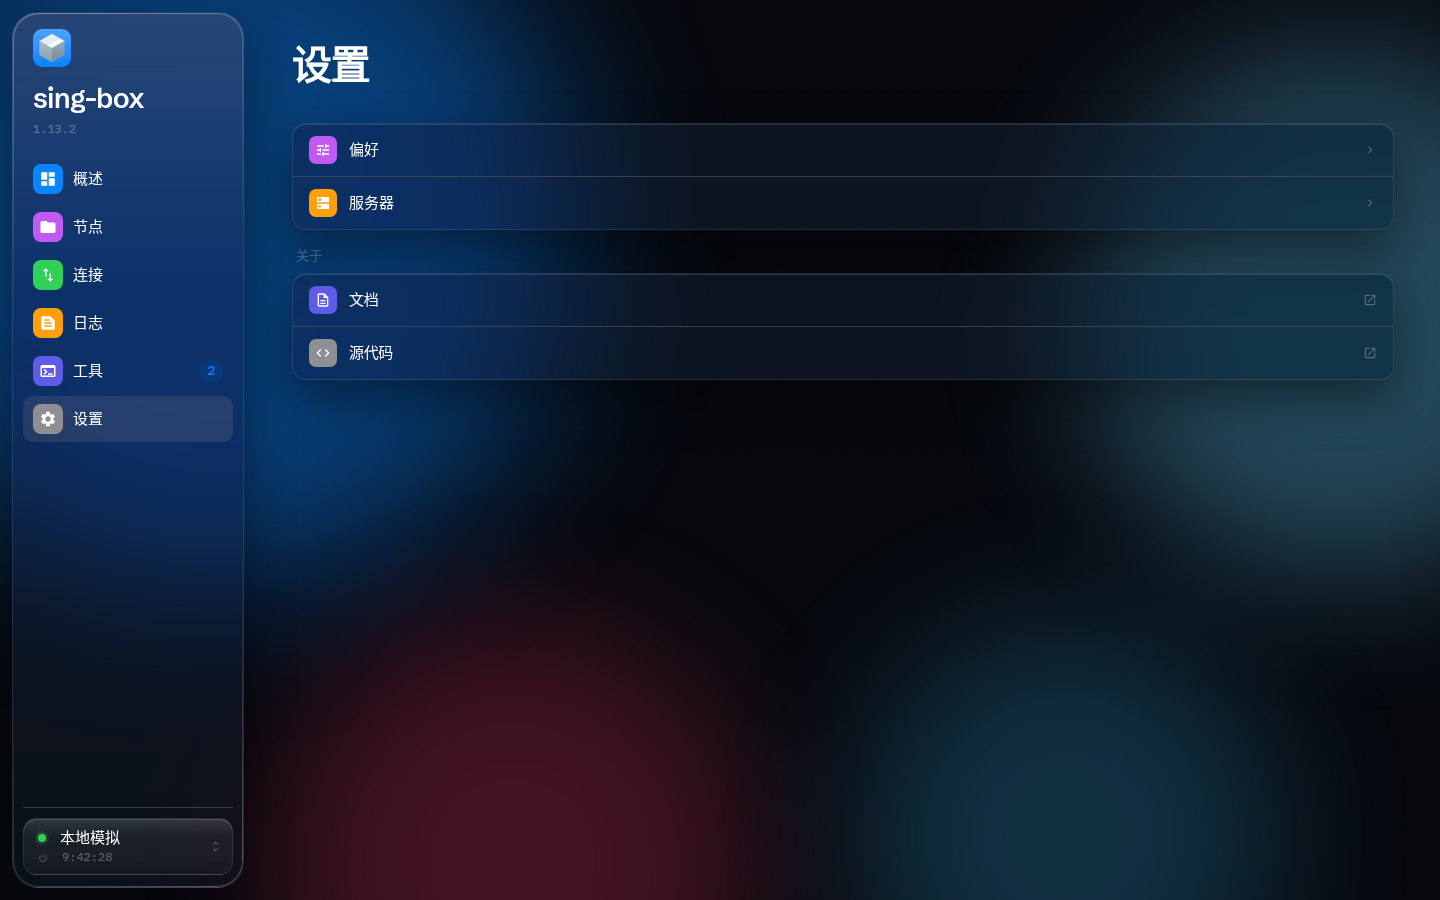
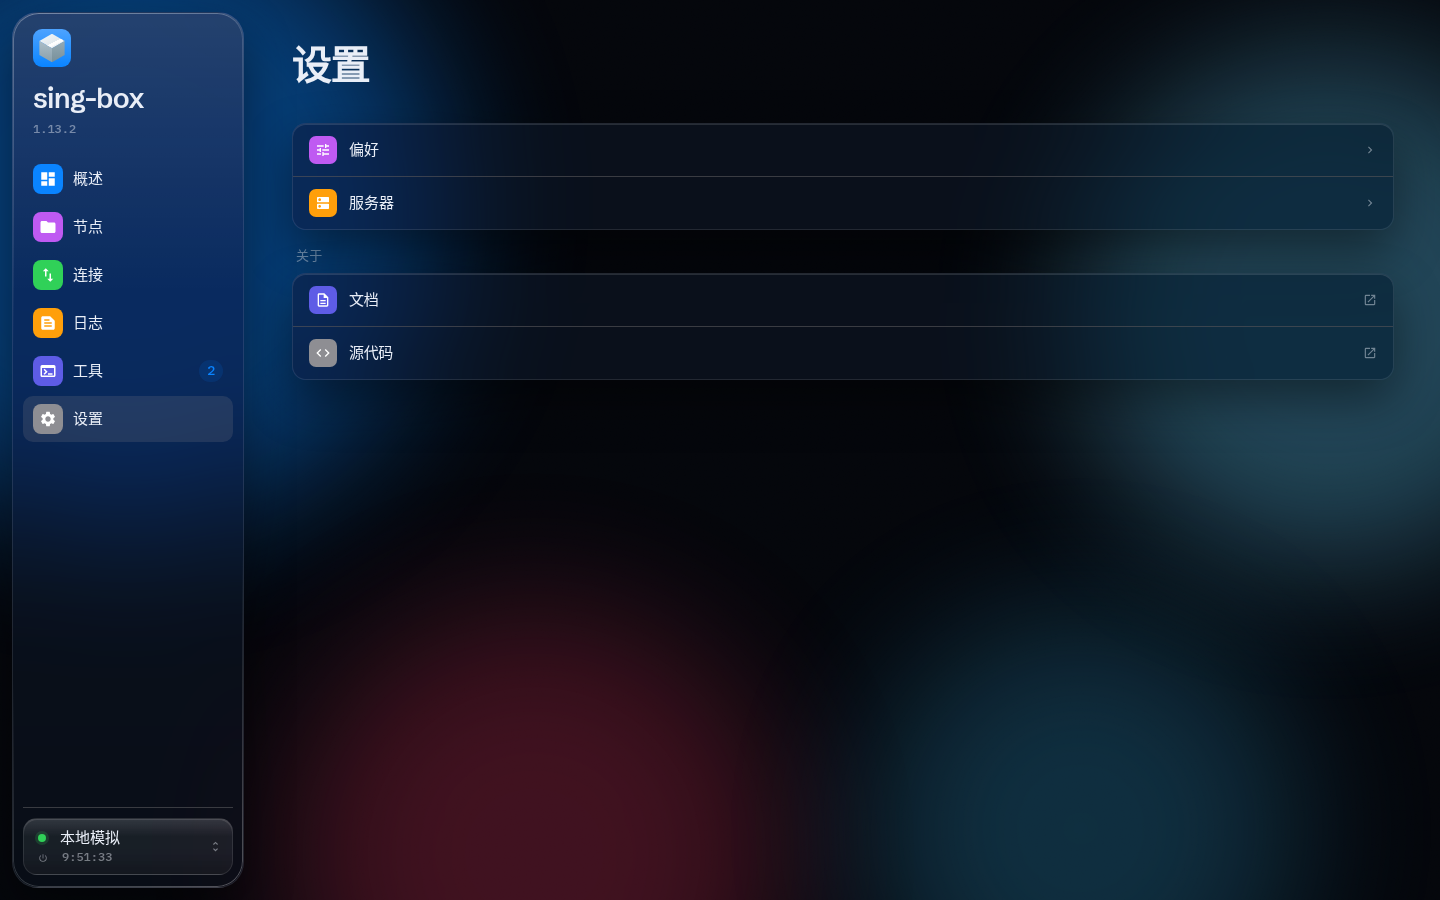
style: deepen the canvas so glass frost has more contrast
Shift the light field from near-white to slate #d0dae8 and the dark
field to #04060b, matching CFNext's deeper ground. Keep glass around
54% with solid #16202e / #e9eef7 type so the blobs do not wash out
labels or titles.

Changed region(s): [[0.0938, 0.0, 0.4375, 0.7156]]

diff --git a/src/styles/globals.css b/src/styles/globals.css
@@ -63,14 +63,14 @@
   --md-tertiary-container: #e6e6ff;
   --md-on-tertiary-container: #1c1c4d;
 
-  --md-surface: #f5f5f7;
-  --md-surface-container-lowest: rgb(255 255 255 / 86%);
-  --md-surface-container-low: rgb(255 255 255 / 72%);
-  --md-surface-container: #f5f5f7;
-  --md-surface-container-high: #ebebed;
-  --md-surface-container-highest: #d2d2d7;
-  --md-on-surface: #000;
-  --md-on-surface-variant: rgb(60 60 67 / 68%);
+  --md-surface: #d0dae8;
+  --md-surface-container-lowest: rgb(236 242 250 / 86%);
+  --md-surface-container-low: rgb(236 242 250 / 72%);
+  --md-surface-container: #d0dae8;
+  --md-surface-container-high: #c4cfde;
+  --md-surface-container-highest: #b3c0d2;
+  --md-on-surface: #16202e;
+  --md-on-surface-variant: rgb(50 64 84 / 78%);
   --md-outline: rgb(60 60 67 / 30%);
   --md-outline-variant: rgb(60 60 67 / 16%);
 
@@ -80,20 +80,20 @@
   --md-on-error-container: #5c0000;
 
   /* ---------- App semantic tokens ---------- */
-  --bg: #f4f6fb;
-  --surface: rgb(255 255 255 / 62%);
-  --card: rgb(255 255 255 / 50%);
-  --inset: #eaeef6;
+  --bg: #d0dae8;
+  --surface: rgb(236 242 250 / 64%);
+  --card: rgb(236 242 250 / 54%);
+  --inset: #c4cfde;
   --canvas-a: var(--accent);
   --canvas-b: var(--ios-teal);
   --canvas-c: var(--ios-pink);
   --blob-d: #38bdf8;
-  --blob-o: 0.42;
+  --blob-o: 0.4;
   --blob-blur: 74px;
-  --noise-opacity: 0.03;
-  --text: #000;
-  --text-secondary: rgb(60 60 67 / 68%);
-  --text-faint: rgb(60 60 67 / 36%);
+  --noise-opacity: 0.035;
+  --text: #16202e;
+  --text-secondary: rgb(50 64 84 / 82%);
+  --text-faint: rgb(50 64 84 / 52%);
   --border: rgb(60 60 67 / 12%);
   --border-strong: rgb(60 60 67 / 24%);
   --hover: rgb(120 120 128 / 10%);
@@ -126,10 +126,10 @@
   --bright: #fff;
   --terminal-bg: #1c1c1e;
 
-  /* Liquid Glass — fill stays ~50% so the atmosphere blobs can be seen through it. */
-  --glass-bg: rgb(255 255 255 / 50%);
-  --glass-bg-strong: rgb(255 255 255 / 60%);
-  --glass-bg-soft: rgb(255 255 255 / 36%);
+  /* Cool mist over a deeper slate canvas. 54% keeps type readable on the blobs. */
+  --glass-bg: rgb(236 242 250 / 54%);
+  --glass-bg-strong: rgb(236 242 250 / 64%);
+  --glass-bg-soft: rgb(236 242 250 / 38%);
   --glass-border: rgb(20 40 70 / 10%);
   --glass-border-strong: rgb(20 40 70 / 16%);
   --glass-blur: 22px;
@@ -278,13 +278,13 @@
   --md-tertiary-container: #2c2c4d;
   --md-on-tertiary-container: #e6e6ff;
 
-  --md-surface: #000;
-  --md-surface-container-lowest: rgb(28 28 30 / 86%);
-  --md-surface-container-low: rgb(28 28 30 / 72%);
-  --md-surface-container: #1d1d1f;
-  --md-surface-container-high: #2c2c2e;
-  --md-surface-container-highest: #3a3a3c;
-  --md-on-surface: #fff;
+  --md-surface: #04060b;
+  --md-surface-container-lowest: rgb(16 24 36 / 86%);
+  --md-surface-container-low: rgb(16 24 36 / 72%);
+  --md-surface-container: #0c1119;
+  --md-surface-container-high: #121826;
+  --md-surface-container-highest: #1a2331;
+  --md-on-surface: #e9eef7;
   --md-on-surface-variant: rgb(235 235 245 / 60%);
   --md-outline: rgb(235 235 245 / 30%);
   --md-outline-variant: rgb(84 84 88 / 65%);
@@ -294,19 +294,19 @@
   --md-error-container: #5c0000;
   --md-on-error-container: #ffd4d1;
 
-  --bg: #06080d;
-  --surface: rgb(23 32 45 / 62%);
-  --card: rgb(23 32 45 / 54%);
-  --inset: #090d14;
+  --bg: #04060b;
+  --surface: rgb(16 24 36 / 64%);
+  --card: rgb(16 24 36 / 56%);
+  --inset: #070a10;
   --canvas-a: var(--accent);
   --canvas-b: var(--ios-teal);
   --canvas-c: var(--ios-pink);
   --blob-d: #38bdf8;
   --blob-o: 0.44;
   --noise-opacity: 0.05;
-  --text: #fff;
-  --text-secondary: rgb(235 235 245 / 60%);
-  --text-faint: rgb(235 235 245 / 30%);
+  --text: #e9eef7;
+  --text-secondary: rgb(233 238 247 / 78%);
+  --text-faint: rgb(233 238 247 / 46%);
   --border: rgb(84 84 88 / 65%);
   --border-strong: rgb(255 255 255 / 22%);
   --hover: rgb(118 118 128 / 24%);
@@ -335,9 +335,9 @@
   --highlight: rgb(10 132 255 / 28%);
   --scrim: rgb(0 0 0 / 52%);
 
-  --glass-bg: rgb(23 32 45 / 54%);
-  --glass-bg-strong: rgb(19 27 39 / 62%);
-  --glass-bg-soft: rgb(255 255 255 / 6%);
+  --glass-bg: rgb(16 24 36 / 58%);
+  --glass-bg-strong: rgb(14 21 32 / 68%);
+  --glass-bg-soft: rgb(255 255 255 / 7%);
   --glass-border: rgb(255 255 255 / 10%);
   --glass-border-strong: rgb(255 255 255 / 16%);
   --glass-sheen: linear-gradient(180deg, rgb(255 255 255 / 11%) 0%, transparent 32%, transparent 60%, rgb(0 0 0 / 20%) 100%);

diff --git a/index.html b/index.html
@@ -5,8 +5,8 @@
     <meta name="viewport" content="width=device-width, initial-scale=1.0, viewport-fit=cover, maximum-scale=1.0, user-scalable=no" />
     <meta name="color-scheme" content="light dark" />
     <!-- iOS 26 Safari ignores theme-color and samples #statusbar-tint instead. -->
-    <meta name="theme-color" media="(prefers-color-scheme: light)" content="#f7f9fc" />
-    <meta name="theme-color" media="(prefers-color-scheme: dark)" content="#111519" />
+    <meta name="theme-color" media="(prefers-color-scheme: light)" content="#d0dae8" />
+    <meta name="theme-color" media="(prefers-color-scheme: dark)" content="#04060b" />
     <meta name="apple-mobile-web-app-capable" content="yes" />
     <meta name="mobile-web-app-capable" content="yes" />
     <meta name="apple-mobile-web-app-title" content="sing-box" />

diff --git a/docs/UI-REDESIGN-NOTES.md b/docs/UI-REDESIGN-NOTES.md
@@ -12,17 +12,17 @@
 
 两层材料共用同一套半透明填充，只是模糊半径不同：
 
-- **Chrome（侧栏、菜单、抽屉、对话框、工具栏、悬浮胶囊）**：`--chrome-filter` = 30px blur / 190% saturate，填充约 50–62%。
-- **Content（卡片、列表、日志、节点块）**：`--glass-filter` = 22px / 170%，填充约 50%。`--material-*` 是这套令牌的别名。
-- 填充必须留在 ~50%。74% 白底叠 `#f5f5f7` 会看起来像实心塑料，玻璃感消失。
+- **Chrome（侧栏、菜单、抽屉、对话框、工具栏、悬浮胶囊）**：`--chrome-filter` = 30px blur / 190% saturate，填充约 54–64%。
+- **Content（卡片、列表、日志、节点块）**：`--glass-filter` = 22px / 170%，填充约 54%。`--material-*` 是这套令牌的别名。
+- 填充约 54–64%。画布要比玻璃深一档，霜才看得出；字落在玻璃上，用实色 `#16202e` / `#e9eef7`，不要半透明灰去抢对比。
 
-画布：浅色 `#f4f6fb` / 深色 `#06080d`。四个 `.atmosphere i` 色块（预模糊 74px、透明度 ~0.42），玻璃才能“看见”颜色。标题字距收紧（约 -0.03em），页面留白偏大。
+画布：浅色 `#d0dae8` / 深色 `#04060b`。四个 `.atmosphere i` 色块（预模糊 74px、透明度 ~0.4），玻璃才能“看见”颜色。标题字距收紧（约 -0.03em），页面留白偏大。
 
 | 令牌 | 值 | 用途 |
 | --- | --- | --- |
-| `--bg` / `--canvas-a/b/c` / `--blob-*` | `#f4f6fb` + 蓝/薄荷/粉/青 blobs | 空气，让玻璃能看见层次 |
+| `--bg` / `--canvas-a/b/c` / `--blob-*` | `#d0dae8` / `#04060b` + 蓝/薄荷/粉/青 blobs | 更深的底，让霜有东西可透 |
 | `--chrome-filter` | 30px / 190% | chrome 液态玻璃 |
-| `--glass-*` / `--material-*` | 22px / 170%，填充 50% | 内容层与 chrome 同材质 |
+| `--glass-*` / `--material-*` | 22px / 170%，填充 54% | 内容层与 chrome 同材质 |
 | `--accent` | 系统蓝 `#007AFF` / `#0A84FF` | 唯一强调色（可换预设） |
 | `--ios-blue/green/orange/...` | iOS 系统色 | 语义色与图标砖 |
 | `--ios-grad-*` | **纯色**（不是渐变） | 图标砖 |

diff --git a/README.md b/README.md
@@ -20,7 +20,7 @@ by the original authors.
 ## Customizations
 
 - Liquid Glass chrome and cards over a CFNext-style atmosphere
-  (moving color blobs, ~50% fill, 22–30px blur) so the frost reads as glass.
+  (slate canvas, moving color blobs, ~54% fill, 22–30px blur).
 - System Blue as the default accent; solid system-color icon tiles
   (upload green, download blue, speed-test orange). Switches, segmented
   controls and capsules follow iOS.
